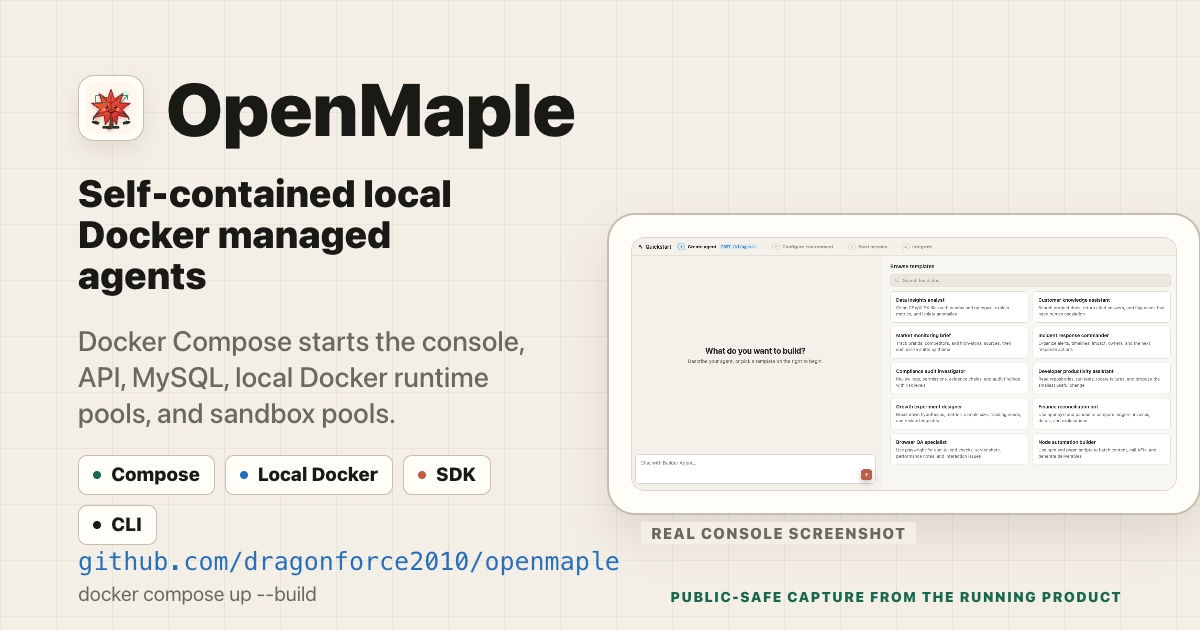
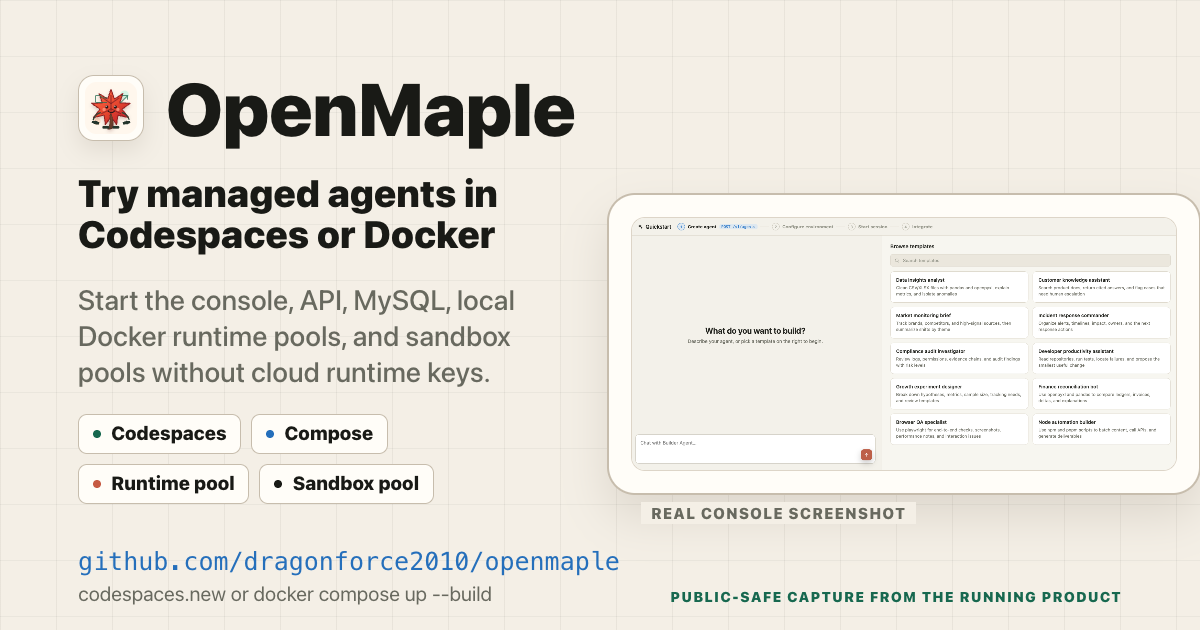
Refresh local Docker launch surface

diff --git a/index.html b/index.html
@@ -4,10 +4,10 @@
     <meta charset="utf-8" />
     <meta name="viewport" content="width=device-width, initial-scale=1" />
     <title>OpenMaple · Managed Agents without Cloud Lock-in</title>
-    <meta name="description" content="OpenMaple is an open-source managed-agent control plane with self-contained local Docker runtime and sandbox evaluation." />
+    <meta name="description" content="OpenMaple is an open-source managed-agent control plane you can try in Codespaces or Docker Compose with local Docker runtime and sandbox pools." />
     <meta name="robots" content="index,follow,max-image-preview:large,max-video-preview:-1,max-snippet:-1" />
     <meta property="og:title" content="OpenMaple · Managed Agents without Cloud Lock-in" />
-    <meta property="og:description" content="Run the console, API, MySQL, local Docker runtime, and local Docker sandbox pools with Docker Compose." />
+    <meta property="og:description" content="Open Codespaces or run Docker Compose to start the console, API, MySQL, local Docker runtime pools, and sandbox pools." />
     <meta property="og:type" content="website" />
     <meta property="og:url" content="https://dragonforce2010.github.io/openmaple/" />
     <meta property="og:image" content="https://dragonforce2010.github.io/openmaple/assets/openmaple-social-card.png" />
@@ -19,7 +19,7 @@
     <meta property="og:video:type" content="video/mp4" />
     <meta name="twitter:card" content="summary_large_image" />
     <meta name="twitter:title" content="OpenMaple · Managed Agents without Cloud Lock-in" />
-    <meta name="twitter:description" content="Self-contained local Docker managed-agent evaluation, then provider adapters for cloud runtime and sandbox paths." />
+    <meta name="twitter:description" content="Try managed agents in Codespaces or Docker Compose, then swap runtime and sandbox providers by policy." />
     <meta name="twitter:image" content="https://dragonforce2010.github.io/openmaple/assets/openmaple-social-card.png" />
     <meta name="twitter:image:alt" content="OpenMaple managed-agent control plane social preview with real console screenshot" />
     <link rel="canonical" href="https://dragonforce2010.github.io/openmaple/" />
@@ -31,7 +31,7 @@
         "@context": "https://schema.org",
         "@type": "SoftwareSourceCode",
         "name": "OpenMaple",
-        "description": "OpenMaple is an open-source managed-agent control plane with self-contained local Docker runtime and sandbox evaluation.",
+        "description": "OpenMaple is an open-source managed-agent control plane you can try in Codespaces or Docker Compose with local Docker runtime and sandbox pools.",
         "codeRepository": "https://github.com/dragonforce2010/openmaple",
         "url": "https://dragonforce2010.github.io/openmaple/",
         "license": "https://github.com/dragonforce2010/openmaple/blob/main/LICENSE",
@@ -534,9 +534,10 @@
           <h1>OpenMaple</h1>
           <div class="hero-grid">
             <div>
-              <p class="lead"><strong>An open-source control plane for long-running agents.</strong> OpenMaple turns agent prototypes into sessions, sandboxes, runtime pools, vault-backed tools, event logs, SDK calls, and CLI workflows you can start locally with Docker and later run on your own cloud.</p>
+              <p class="lead"><strong>An open-source control plane for long-running agents.</strong> OpenMaple turns agent prototypes into sessions, sandboxes, runtime pools, vault-backed tools, event logs, SDK calls, and CLI workflows you can try in Codespaces, run locally with Docker, and later move onto your own cloud.</p>
               <div class="actions">
-                <a class="btn primary" href="#quickstart">Run locally</a>
+                <a class="btn primary" href="https://codespaces.new/dragonforce2010/openmaple?quickstart=1">Open Codespaces</a>
+                <a class="btn" href="#quickstart">Run locally</a>
                 <a class="btn" href="#tour">Watch tour</a>
                 <a class="btn maple" href="https://github.com/dragonforce2010/openmaple">Star on GitHub</a>
                 <a class="btn" href="https://github.com/dragonforce2010/openmaple/discussions/30">Launch discussion</a>
@@ -575,8 +576,8 @@
       </section>
       <section id="quickstart" class="wrap quickstart">
         <div class="quickstart-copy">
-          <h2>Run managed agents locally.</h2>
-          <p>OpenMaple ships a self-contained Docker Compose path: app, console, API, local MySQL, dev login, local Docker runtime pools, and local Docker sandbox pools. Use GitHub Codespaces when you want a hosted trial environment. E2B and veFaaS keys are not needed for the default local path; model keys are only needed for real model-backed loops.</p>
+          <h2>Try the platform without cloud runtime keys.</h2>
+          <p>OpenMaple ships a self-contained Docker Compose path: app, console, API, local MySQL, dev login, local Docker runtime pools, and local Docker sandbox pools. Use GitHub Codespaces when you want a hosted trial environment. E2B, veFaaS, and OAuth credentials are not needed for the default local path; model keys are only needed for real model-backed loops.</p>
           <div class="actions">
             <a class="btn primary" href="https://codespaces.new/dragonforce2010/openmaple?quickstart=1">Open Codespaces</a>
             <a class="btn" href="https://github.com/dragonforce2010/openmaple#run-it-locally">Open README</a>
@@ -587,6 +588,8 @@
         </div>
         <div class="quickstart-commands">
           <pre class="code-card"><code>docker compose up --build
+
+npm run smoke:local
 
 BASE=http://127.0.0.1:27951
 curl $BASE/health

diff --git a/README.md b/README.md
@@ -23,6 +23,8 @@ _Screenshots are public-safe crops from the running OpenMaple console. Workspace
 
 Feedback wanted: join the [launch discussion](https://github.com/dragonforce2010/openmaple/discussions/30) to challenge the resource model, provider priorities, and first proof you would need before trying OpenMaple inside an engineering team.
 
+Fastest trial path: open [GitHub Codespaces](https://codespaces.new/dragonforce2010/openmaple?quickstart=1), run `docker compose up --build`, then `npm run smoke:local`. You get the console, API, MySQL, local dev login, local Docker runtime pools, and local Docker sandbox pools without E2B, veFaaS, or OAuth credentials. Model keys are only needed when you run real model-backed loops.
+
 Evaluating for an internal platform spike? Start with the [30-minute evaluation guide](EVALUATION.md).
 
 Prefer video first?

diff --git a/README.zh-CN.md b/README.zh-CN.md
@@ -14,6 +14,8 @@ _截图来自正在运行的 OpenMaple 控制台。公开版本已裁掉 workspa
 
 欢迎在 [launch discussion](https://github.com/dragonforce2010/openmaple/discussions/30) 里直接挑战资源模型、provider 优先级，以及一个企业工程团队试用前最需要看到的证据。
 
+最快试用路径：打开 [GitHub Codespaces](https://codespaces.new/dragonforce2010/openmaple?quickstart=1)，运行 `docker compose up --build`，再执行 `npm run smoke:local`。你会得到 Console、API、MySQL、本地开发登录、本地 Docker runtime pool 和本地 Docker sandbox pool；默认路径不需要 E2B、veFaaS 或 OAuth 凭证。只有运行真实模型驱动的 loop 时才需要模型 key。
+
 如果你在做内部平台评估，先看 [30-minute evaluation guide](EVALUATION.md)。
 
 想先看视频：